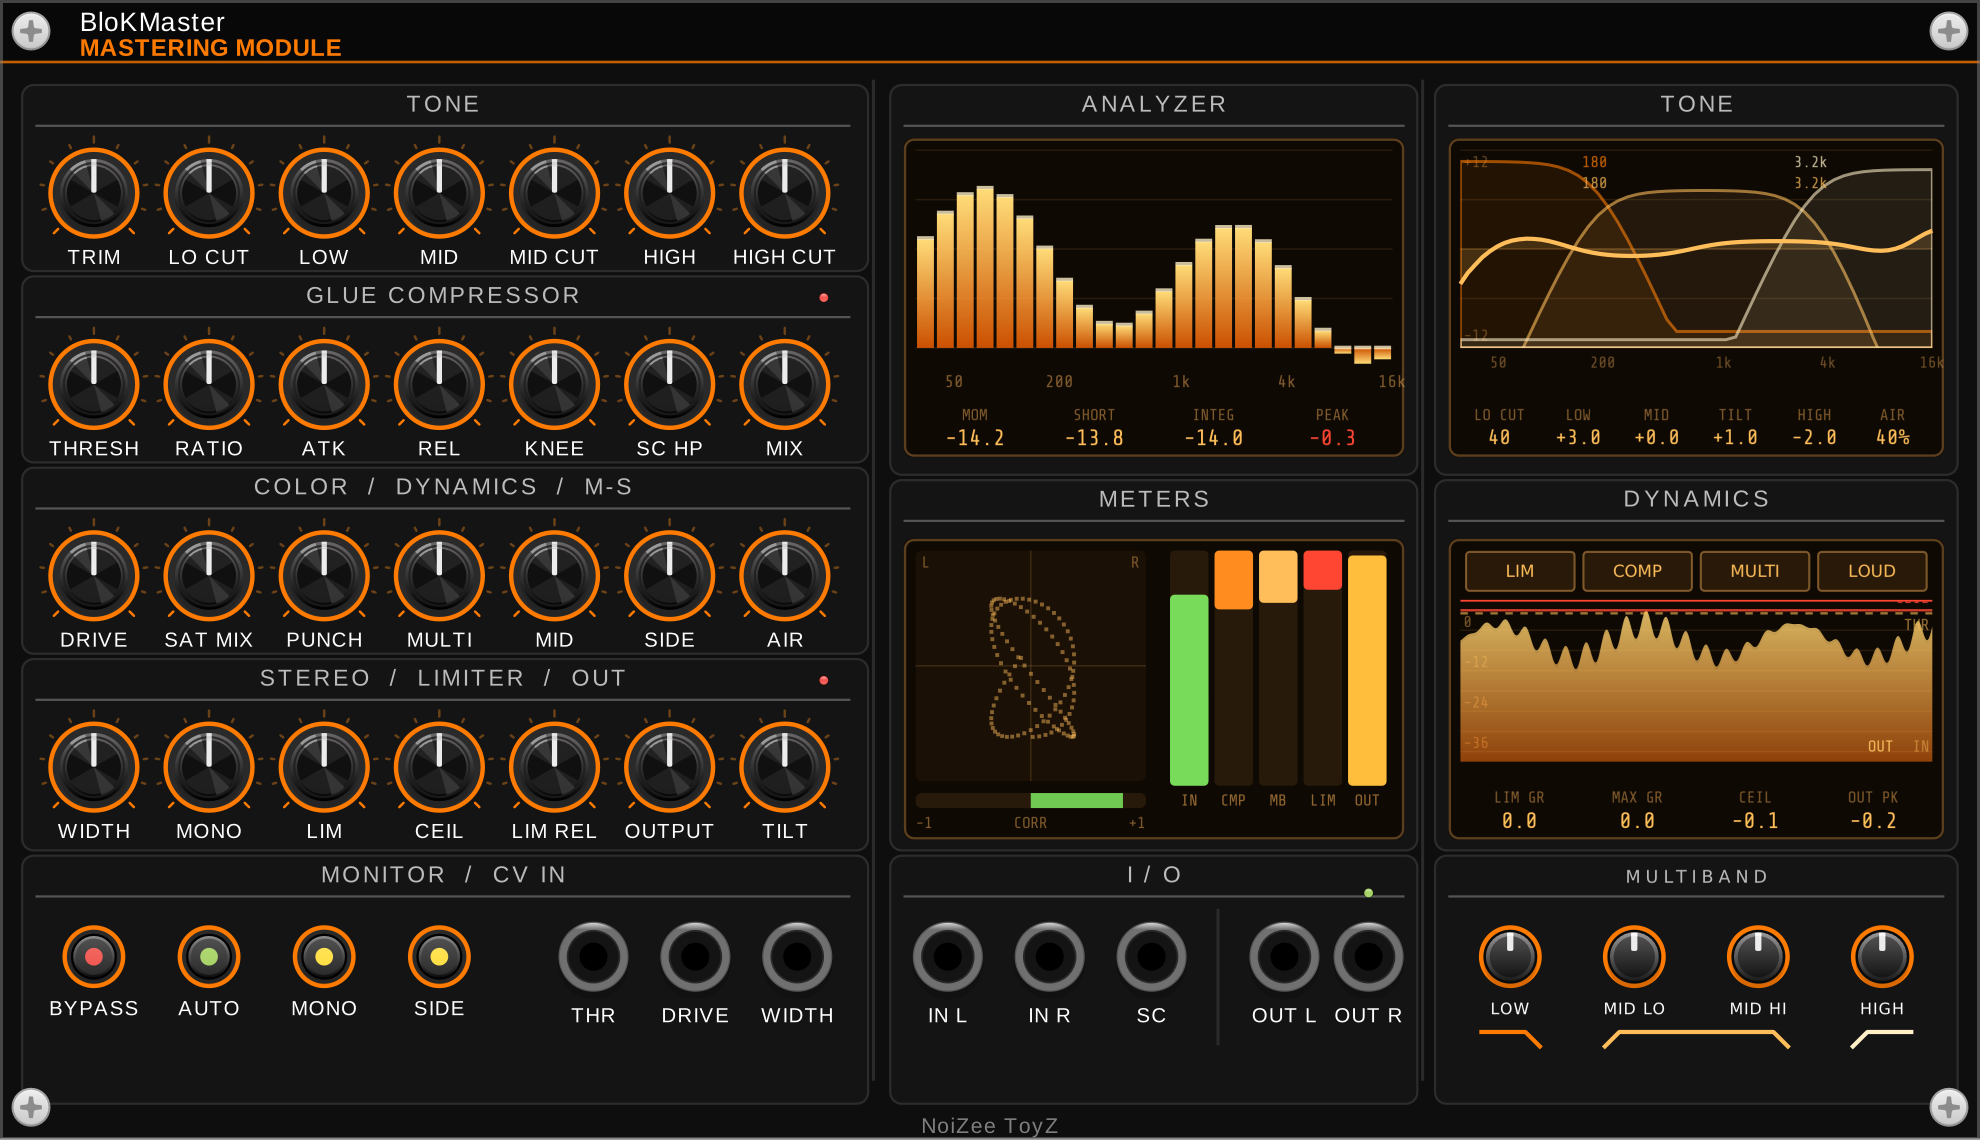
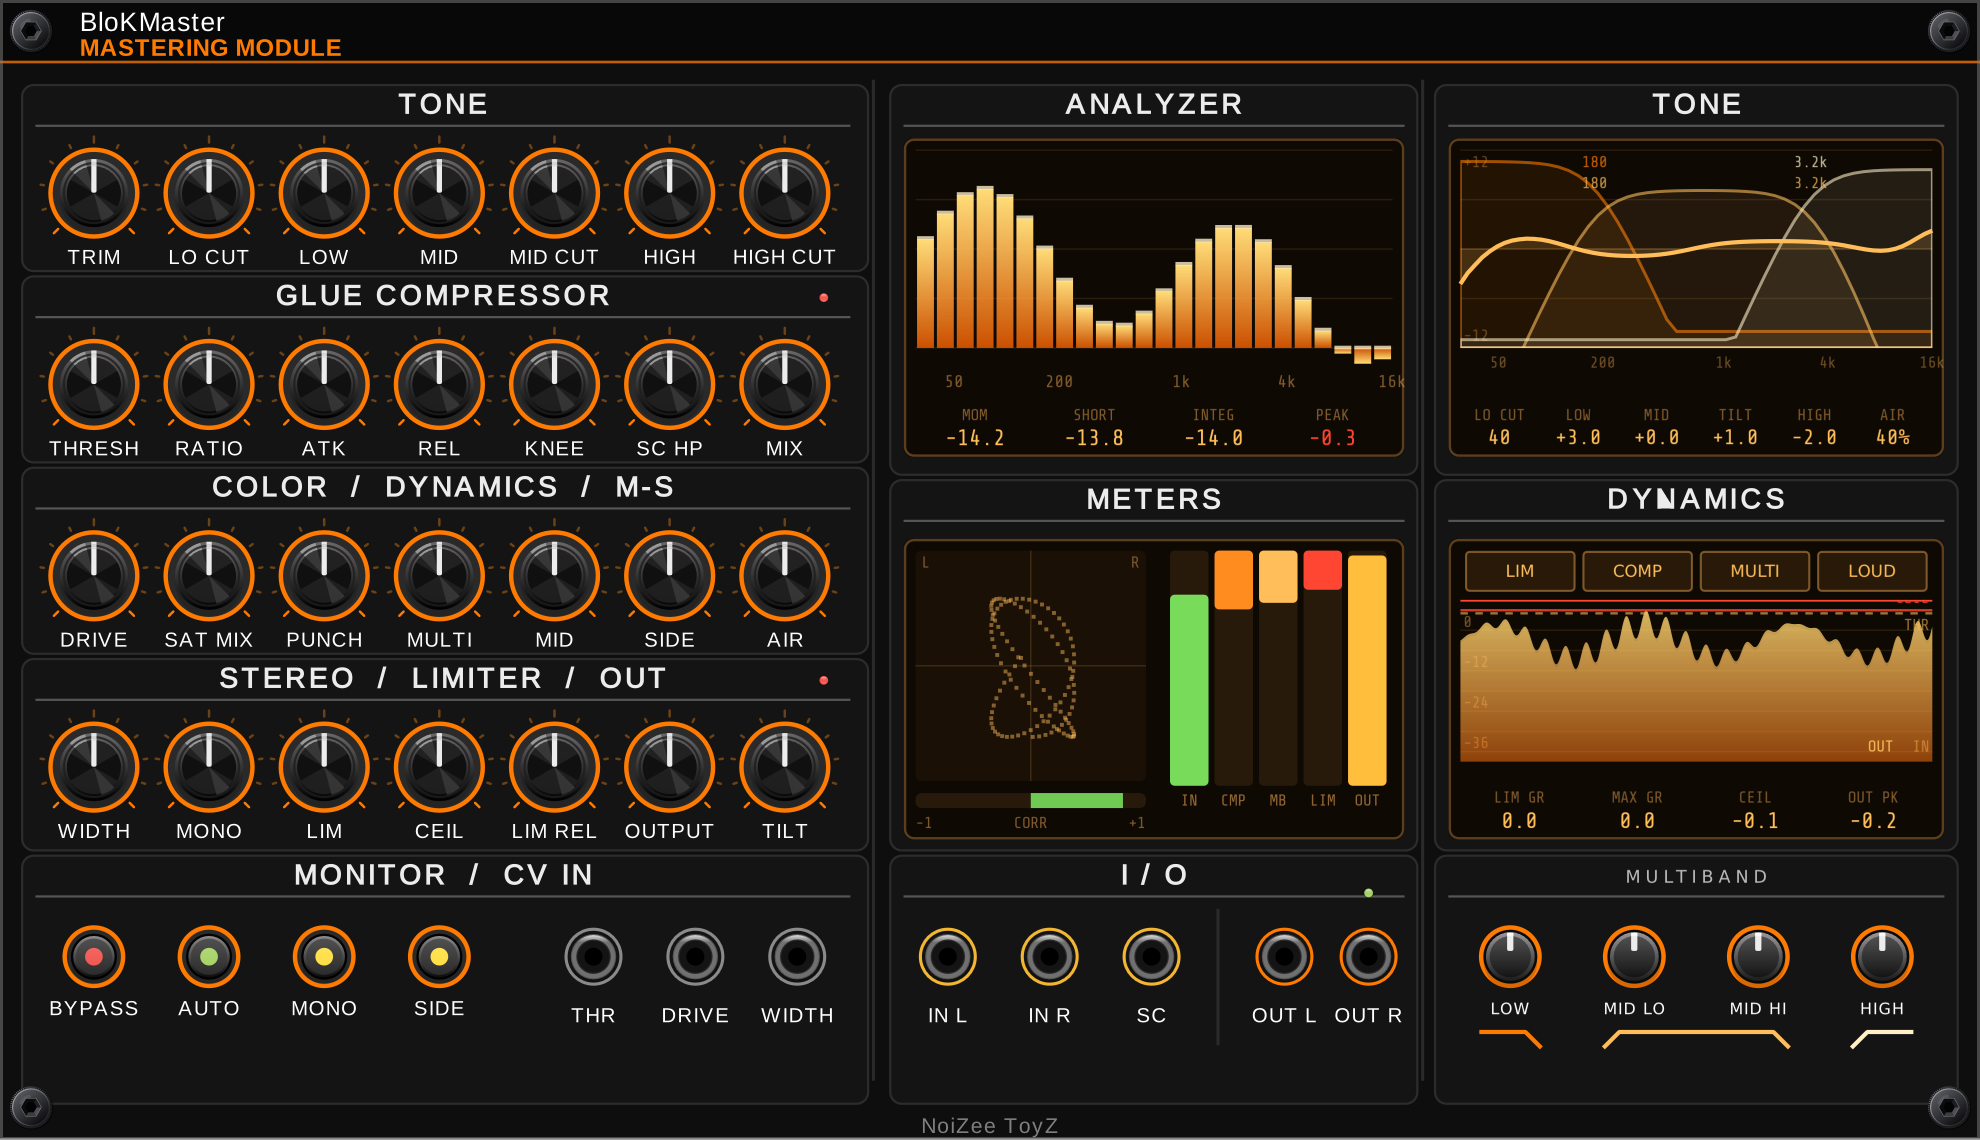
BLOKMASTER 2.1.1: new jack rings (audio in gold, out orange, others grey) + bolder section headers
Claude-Session: https://claude.ai/code/session_0118GTBMnkcZFkLwi5NoL91P

diff --git a/src/OledUi.hpp b/src/OledUi.hpp
@@ -16,18 +16,40 @@
 //    controls beside it (e.g. as tall as a knob's ring)
 #include "plugin.hpp"
 #include <string>
+#include <cmath>
+#include <algorithm>
 
 namespace oled {
 
 static const float kRow = 4.4f;      // info line height, mm
 static const float kCellH = 4.4f;    // button cell height, mm
 
-inline NVGcolor amber(int a = 255) { return nvgRGBA(255, 190, 90, a); }
-inline NVGcolor dim() { return nvgRGBA(255, 190, 90, 130); }
-inline NVGcolor green() { return nvgRGBA(120, 230, 90, 255); }
-inline NVGcolor outline(int a = 80) { return nvgRGBA(255, 180, 90, a); }
-inline NVGcolor litFill() { return nvgRGBA(255, 112, 15, 235); }
-inline NVGcolor offFill() { return nvgRGBA(40, 25, 8, 255); }
+// BACKDROP RECOLOUR step 2 (Nov 20 2026): BACKDROP can hand every NoiZee ToyZ screen its theme colour (off: the usual amber)
+struct Theme { bool on = false; float r = 1.f, g = 0.745f, b = 0.353f; float rot = 0.f, sat = 1.f; };   // (BLOX THEMES: rot / sat)
+inline Theme& theme() { static Theme t; return t; }
+inline NVGcolor accent(int a) { const Theme& t = theme(); return nvgRGBA((int) (t.r * 255.f), (int) (t.g * 255.f), (int) (t.b * 255.f), a); }
+// BLOX THEMES (Nov 20 2026): BLOX's colour turn (themes.js nzShiftRGB): hue + rot, saturation x sat; near-greys stay
+inline NVGcolor shift(NVGcolor c) {
+    const Theme& t = theme();
+    if (t.rot == 0.f && t.sat == 1.f) return c;
+    float R = c.r, G = c.g, B = c.b, mx = std::max(R, std::max(G, B)), mn = std::min(R, std::min(G, B)), l = (mx + mn) * 0.5f, d = mx - mn;
+    if (d < 0.04f) return c;
+    float sv = l > 0.5f ? d / (2.f - mx - mn) : d / (mx + mn), h;
+    if (mx == R) h = ((G - B) / d + (G < B ? 6.f : 0.f)) * 60.f; else if (mx == G) h = ((B - R) / d + 2.f) * 60.f; else h = ((R - G) / d + 4.f) * 60.f;
+    h = std::fmod(std::fmod(h + t.rot, 360.f) + 360.f, 360.f); sv = std::min(1.f, sv * t.sat);
+    float q = l < 0.5f ? l * (1.f + sv) : l + sv - l * sv, p = 2.f * l - q;
+    auto f = [&](float k) { k = k - std::floor(k); return k < 1.f / 6.f ? p + (q - p) * 6.f * k : k < 0.5f ? q : k < 2.f / 3.f ? p + (q - p) * (2.f / 3.f - k) * 6.f : p; };
+    return nvgRGBAf(f(h / 360.f + 1.f / 3.f), f(h / 360.f), f(h / 360.f - 1.f / 3.f), c.a);
+}
+// (BLOX THEMES on the MTX parts) colour makers that follow the BACKDROP theme
+inline NVGcolor tRGB(unsigned char r, unsigned char g, unsigned char b) { return shift(nvgRGB(r, g, b)); }
+inline NVGcolor tRGBA(unsigned char r, unsigned char g, unsigned char b, unsigned char a) { return shift(nvgRGBA(r, g, b, a)); }
+inline NVGcolor amber(int a = 255) { return shift(nvgRGBA(255, 190, 90, a)); }
+inline NVGcolor dim() { return shift(nvgRGBA(255, 190, 90, 130)); }
+inline NVGcolor green() { return shift(nvgRGBA(120, 230, 90, 255)); }
+inline NVGcolor outline(int a = 80) { return shift(nvgRGBA(255, 180, 90, a)); }
+inline NVGcolor litFill() { return shift(nvgRGBA(255, 112, 15, 235)); }
+inline NVGcolor offFill() { return shift(nvgRGBA(40, 25, 8, 255)); }
 inline NVGcolor ink() { return nvgRGBA(20, 10, 2, 255); }
 
 // The display body.
@@ -69,6 +91,23 @@ inline void midiLine(const widget::Widget::DrawArgs& args, midi::Port* port, con
 }
 
 // The port menu a MIDI line opens.
+// The MTX header title, as on MTX-ECHO / MTX-DRUM: "SynTHBloK" in white, the module's name in spaced orange under it,
+// left at 8.5 mm (Nick, Nov 12 2026: every new module's faceplate title matches the others)
+inline void mtxTitle(NVGcontext* vg, const char* name) {
+    std::shared_ptr<window::Font> font = APP->window->uiFont;
+    if (!font) return;
+    nvgFontFaceId(vg, font->handle);
+    nvgTextAlign(vg, NVG_ALIGN_LEFT | NVG_ALIGN_BASELINE);
+    nvgFontSize(vg, 11.f);
+    nvgTextLetterSpacing(vg, 0.f);
+    nvgFillColor(vg, nvgRGB(0xff, 0xff, 0xff));
+    nvgText(vg, mm2px(8.5f), mm2px(3.5f), "SynTHBloK", NULL);
+    nvgFontSize(vg, 10.f);
+    nvgTextLetterSpacing(vg, 0.8f);
+    nvgFillColor(vg, shift(nvgRGB(0xff, 0x7a, 0x00)));
+    nvgText(vg, mm2px(8.5f), mm2px(6.4f), name, NULL);
+    nvgTextLetterSpacing(vg, 0.f);
+}
 inline void midiMenu(midi::Port* port, const char* title) {
     if (!port) return;
     ui::Menu* menu = createMenu();

diff --git a/src/BloKMaster.cpp b/src/BloKMaster.cpp
@@ -18,6 +18,10 @@
 #include <cmath>
 #include <algorithm>
 #include <atomic>
+#include <vector>
+#include <string>
+#include <cstdio>
+#include <cstdlib>
 
 namespace {
 
@@ -358,10 +362,44 @@ struct BlokMaster : Module {
         monoHp.highpass(params[MONO_BASS_PARAM].getValue(), 0.70710678f, sr);
     }
 
+    // MASTER DUMP (Nov 12 2026, dev test hook, off unless the environment asks): SYNTHBLOK_MASTER_DUMP=<path> writes
+    // <path>.<module id>.wav (48 kHz-ish 16-bit stereo, +-10 V = full scale) of the OUTPUT: SYNTHBLOK_MASTER_DUMP_SEC
+    // seconds (default 45), starting SYNTHBLOK_MASTER_DUMP_SKIP seconds (default 25) after the first sound, so a RANDROYD
+    // track can be measured as the real build plays it (tools/genre_compare.py).
+    struct Dump { std::string path; std::vector<int16_t> buf; long skip = 0, len = 0; bool on = false, heard = false, done = false; int sr = 48000; } dump;
+    void dumpStep(float l, float r, float sampleRate) {
+        if (!dump.on || dump.done) return;
+        if (!dump.heard) { if (std::fabs(l) + std::fabs(r) < 1e-3f) return; dump.heard = true; dump.sr = (int) sampleRate; }
+        if (dump.skip > 0) { dump.skip--; return; }
+        auto q = [](float v) { return (int16_t) std::max(-32767.f, std::min(32767.f, v / 10.f * 32767.f)); };
+        dump.buf.push_back(q(l)); dump.buf.push_back(q(r));
+        if ((long) dump.buf.size() / 2 < dump.len) return;
+        dump.done = true;
+        std::string fn = dump.path + "." + std::to_string(id) + ".wav";
+        if (FILE* f = std::fopen(fn.c_str(), "wb")) {
+            uint32_t n = (uint32_t) dump.buf.size() * 2;
+            auto u32 = [&](uint32_t v) { std::fwrite(&v, 4, 1, f); };
+            auto u16 = [&](uint16_t v) { std::fwrite(&v, 2, 1, f); };
+            std::fwrite("RIFF", 1, 4, f); u32(36 + n); std::fwrite("WAVEfmt ", 1, 8, f); u32(16); u16(1); u16(2);
+            u32((uint32_t) dump.sr); u32((uint32_t) dump.sr * 4); u16(4); u16(16); std::fwrite("data", 1, 4, f); u32(n);
+            std::fwrite(dump.buf.data(), 2, dump.buf.size(), f);
+            std::fclose(f);
+        }
+        dump.buf.clear(); dump.buf.shrink_to_fit();
+    }
+
     // ------------------------------------------------------------------
     // main audio callback
     // ------------------------------------------------------------------
     void process(const ProcessArgs& args) override {
+        if (!dump.on && !dump.done && dump.path.empty()) {
+            if (const char* d = getenv("SYNTHBLOK_MASTER_DUMP")) {
+                dump.path = d; dump.on = true;
+                const char* sk = getenv("SYNTHBLOK_MASTER_DUMP_SKIP"); const char* se = getenv("SYNTHBLOK_MASTER_DUMP_SEC");
+                dump.skip = (long) ((sk ? atof(sk) : 25.0) * args.sampleRate);
+                dump.len = (long) ((se ? atof(se) : 45.0) * args.sampleRate);
+            } else dump.path = "-";   // checked once
+        }
         if (++ctrlCount >= 32) {
             ctrlCount = 0; updateControlRate();
             for (int i = 0; i < NUM_VIEWS; i++)
@@ -561,6 +599,7 @@ struct BlokMaster : Module {
         float oL = l * (1.f - byp) + inL * byp, oR = r * (1.f - byp) + inR * byp;
         outputs[OUT_L_OUTPUT].setVoltage(oL);
         outputs[OUT_R_OUTPUT].setVoltage(oR);
+        if (dump.on) dumpStep(oL, oR, args.sampleRate);
 
         // ---------------- metering ----------------
         float pkOut = std::max(std::fabs(oL), std::fabs(oR));

diff --git a/src/plugin.hpp b/src/plugin.hpp
@@ -1,5 +1,6 @@
 #pragma once
 #include "rack.hpp"
+#include <set>
 
 using namespace rack;
 
@@ -44,15 +45,43 @@ extern Model* modelSynTHBloKLoop;
 extern Model* modelSynTHBloKMtxQuad;
 extern Model* modelSynTHBloKDualFilter;
 extern Model* modelSynTHBloKRandroyd;
+extern Model* modelNoizeePatchGen;
+// the module ids PATCH GEN placed (src/NoizeePatchGen.cpp): RANDROYD never patches into them
+std::set<int64_t>& patchGenOwned();
+// ONE RIG: set by a RANDROYD in the rack; PATCH GEN calls it so its patch packs into RANDROYD's rig
+#include <functional>
+std::function<void(history::ComplexAction*)>& randroydPackHook();
 
 // VCV-size jack (23.7 px, the same as Rack's PJ301M): black body with a silver ring.
 // Used on every module but the JAM and MIX-24.
-struct BlackJack : app::SvgPort {
-    BlackJack() { setSvg(APP->window->loadSvg(asset::plugin(pluginInstance, "res/JackBlackSilver.svg"))); }
+// JACK RINGS (Nov 26 2026, Nick): every jack draws its own ring, one size on every module, coloured by what it carries
+// (src/JackRings.hpp: audio in gold, audio out orange, the rest grey). Panels no longer draw jack rings.
+#include "JackRings.hpp"
+struct RingPort : app::SvgPort {
+    int ringKind = -1;   // resolved lazily in draw(): Rack -t screenshots and browser previews draw before any step()
+    void resolveRing() {  // (Gemini review, Nov 26): module may be null there, the ModuleWidget's model is set by then
+        app::ModuleWidget* mw = getAncestorOfType<app::ModuleWidget>();
+        if (mw && mw->model) ringKind = jackrings::kindOf(mw->model->slug, type == engine::Port::OUTPUT, portId);
+    }
+    void draw(const DrawArgs& args) override {
+        app::SvgPort::draw(args);   // jack + its shadow first, so the ring stays crisp (it clears the 2.5 mm jack body)
+        if (ringKind < 0) resolveRing();
+        nvgBeginPath(args.vg);
+        nvgCircle(args.vg, box.size.x * 0.5f, box.size.y * 0.5f, mm2px(jackrings::RING_R_MM));
+        nvgStrokeWidth(args.vg, mm2px(jackrings::RING_W_MM));
+        nvgStrokeColor(args.vg, jackrings::colour(ringKind < 0 ? jackrings::GREY : (jackrings::Kind)ringKind));
+        nvgStroke(args.vg);
+    }
+};
+
+struct BlackJack : RingPort {
+    // (Nov 14 2026, Nick: "make all the jacks match small jacks": every module's jacks are the 5.2 mm small jack now; the
+    // 8 mm black / silver art stays in res/ in case it comes back. Jacks are placed by their centre, so they stay put.)
+    BlackJack() { setSvg(APP->window->loadSvg(asset::plugin(pluginInstance, "res/JackSmall.svg"))); }
 };
 
 // Small version of BlackJack (5.2 mm), for the JAM and MIX-24 modules.
-struct SmallJack : app::SvgPort {
+struct SmallJack : RingPort {
     SmallJack() { setSvg(APP->window->loadSvg(asset::plugin(pluginInstance, "res/JackSmall.svg"))); }
 };
 

diff --git a/src/JackRings.hpp b/src/JackRings.hpp
@@ -1,0 +1,60 @@
+#pragma once
+// JACK RINGS (Nov 26 2026, Nick): every jack gets ONE ring, same size on every module (r 3.1 mm, line 0.35 mm, the old
+// STEREO PHASER CV ring), coloured by what it carries: audio IN gold #f2b632, audio OUT orange #ff7a00, everything else
+// grey #8a8a8a. Drawn by the jack widget (BlackJack / SmallJack in plugin.hpp); panels no longer draw jack rings.
+// The table lists only AUDIO ports (enum index = configInput / configOutput order); anything not listed is grey.
+// Sidechain inputs count as audio, FM inputs do not (Nick, Nov 26). Keyed by model slug (same in the paid plugin and singles).
+#include <rack.hpp>
+#include <string>
+#include <vector>
+#include <cstring>
+
+namespace jackrings {
+struct Entry { const char* slug; std::vector<int> in, out; };
+inline const std::vector<Entry>& table() {
+    static const std::vector<Entry> t = {
+        {"MatrixForge", {0,1}, {0,1}},
+        {"Duo", {3,4}, {0,1,2,3}},
+        {"Drum", {3,4}, {0,1,10,11,12,13,14,15,16,17,28,29}},
+        {"MtxQuad", {9,11}, {0,1,2,3,5,6,7,8,9}},
+        {"Quad", {9,11}, {0,1,2,3,5,6,7,8,9}},
+        {"MatrixFx", {0,1,2,3,4,5,6,7,11}, {0,1}},
+        {"Echo", {0,1}, {0,1}},
+        {"Loop", {0,1,2,3,4,5,6,7}, {0,1,2,3,4,5,6,7,8,9}},
+        {"GlitchEcho", {0,1}, {0,1}},
+        {"Grit", {0,1}, {0,1}},
+        {"Stereo", {0}, {0,1}},
+        {"Matrix8", {}, {17,18}},
+        {"Kick", {}, {0,1}},
+        {"SnareHat", {}, {0,1,2}},
+        {"Resonator", {4,5}, {0,1,3}},
+        {"Poly", {}, {0,1}},
+        {"Pulse", {}, {0}},
+        {"DualFilter", {0,1}, {0,1,2,3}},
+        {"NoizeeFlagshipFilter", {16,17}, {0,1}},
+        {"FX", {9,10}, {0,1,2}},
+        {"GrainForge", {0,1}, {0,1}},
+        {"BlokMaster", {0,1,2}, {0,1}},
+        {"Mix24", {6,7,8,9,10,11,12,13,14,15,16,17,18,19}, {0,1,2,3}},
+        {"Mix8", {6,7,8,9,10,11,12,13,14,15,16,17,18,19,20,21,22,23}, {0,1,2,3}},
+        {"Mix12", {6,7,8,9,10,11,12,13,14,15,16,17,18,19,20,21,22,23,24,25,26,27,28,29,30,31}, {0,1,2,3}},
+        {"ToyBox", {}, {3,4}},
+    };
+    return t;
+}
+enum Kind { GREY = 0, AUDIO_IN = 1, AUDIO_OUT = 2 };
+inline Kind kindOf(const std::string& slug, bool out, int id) {
+    for (const Entry& e : table()) {
+        if (slug != e.slug) continue;
+        for (int v : (out ? e.out : e.in)) if (v == id) return out ? AUDIO_OUT : AUDIO_IN;
+        return GREY;
+    }
+    return GREY;
+}
+inline NVGcolor colour(Kind k) {
+    if (k == AUDIO_IN)  return nvgRGB(0xf2, 0xb6, 0x32);
+    if (k == AUDIO_OUT) return nvgRGB(0xff, 0x7a, 0x00);
+    return nvgRGB(0x8a, 0x8a, 0x8a);
+}
+constexpr float RING_R_MM = 3.1f, RING_W_MM = 0.35f;
+}  // namespace jackrings
